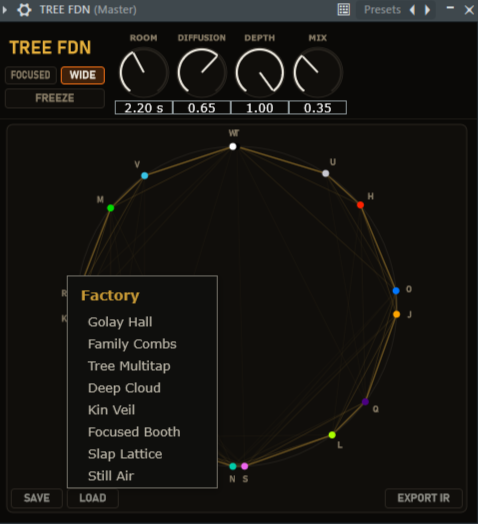
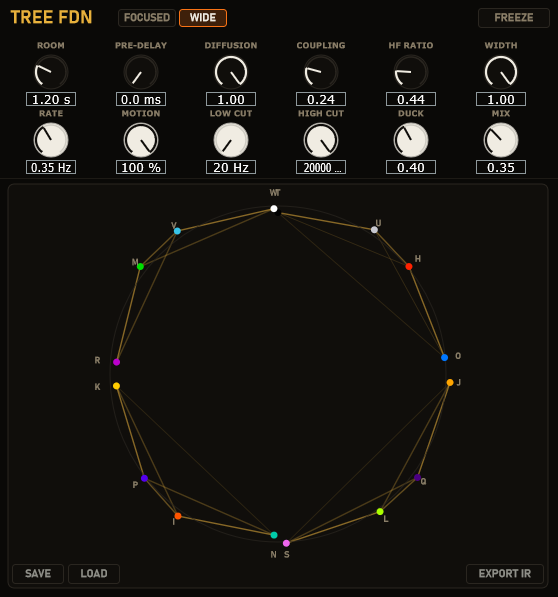
web: actualiza TREE FDN y limpia media del landing
Seccion TREE FDN
- Imagen principal (hero + tarjeta de producto) a la captura nueva de 12
  knobs; la anterior mostraba la UI de 4 knobs con DEPTH.
- DEPTH -> COUPLING en toda la seccion. Solo cambia la etiqueta visible:
  el ID del parametro no cambia, asi que proyectos guardados y automatizacion
  del host siguen atados igual. Se dice en la nota al pie.
- Rejilla de controles rehecha: 6 -> 12 entradas en el orden del panel, con
  los rangos reales. Nuevas: PRE-DELAY, HF RATIO, WIDTH, RATE, MOTION,
  LOW CUT, HIGH CUT, DUCK.
- Nuevo punto y dos tarjetas para COUPLING y MOTION. Sin cifras: las
  mediciones se quedan internas.
- Corregida la nota que afirmaba que el damping no necesitaba knob extra
  (HF RATIO existe desde hace tiempo).
- "The display is the DSP" cubre ya la respiracion por nodo y el hecho de
  que a MOTION 0 el grafo se queda quieto.

Landing
- Fuera el embed de YouTube.
- Fuera los 7 reproductores de audio (4 del hero + los 3 de "Hear the
  geometry"); la seccion entera se va porque sin ellos quedaba vacia.
  Los .wav siguen en el repo. Se rehacen.

diff --git a/index.html b/index.html
@@ -57,39 +57,6 @@
         <div style="margin:44px auto 0;max-width:960px;border:1px solid #232933;border-radius:14px;overflow:hidden;box-shadow:0 40px 90px -30px rgba(255,138,42,0.18), 0 30px 60px -40px rgba(0,0,0,0.9);background:#06080e">
           <iframe src="Video%20con%20voz%20duck/github-pages/index.html" title="Expand32 — intro animation" style="display:block;width:100%;aspect-ratio:16/9;border:0" allow="autoplay; fullscreen" allowfullscreen="allowfullscreen" loading="lazy"></iframe>
         </div>
-        <div style="margin:34px auto 0;max-width:960px">
-          <div style="font-family:'IBM Plex Mono',monospace;font-size:12px;letter-spacing:0.22em;color:#ff8a2a;text-transform:uppercase;font-weight:500">Audio samples</div>
-          <div style="display:flex;flex-direction:column;gap:12px;margin-top:16px">
-            <div style="display:flex;align-items:center;gap:20px;background:#12151a;border:1px solid #232933;border-radius:12px;padding:18px 24px;flex-wrap:wrap;text-align:left">
-              <div style="flex:1;min-width:220px">
-                <div style="font-weight:700;font-size:16px;color:#e8eaed">Physical WG engine</div>
-                <div style="font-family:'IBM Plex Mono',monospace;font-size:11.5px;color:#5b6570;margin-top:4px">LINEAGE DELAY + TREE FDN</div>
-              </div>
-              <audio controls="controls" preload="none" src="Muestras%20de%20audio/Engine%20physical%20Wg%20-%20Lineage%20delay%20%26%20Tree%20fdn.wav" style="flex:1;min-width:260px;height:36px"></audio>
-            </div>
-            <div style="display:flex;align-items:center;gap:20px;background:#12151a;border:1px solid #232933;border-radius:12px;padding:18px 24px;flex-wrap:wrap;text-align:left">
-              <div style="flex:1;min-width:220px">
-                <div style="font-weight:700;font-size:16px;color:#e8eaed">Undertone engine</div>
-                <div style="font-family:'IBM Plex Mono',monospace;font-size:11.5px;color:#5b6570;margin-top:4px">AUTO + TREE FDN + PRIME LINEAGE</div>
-              </div>
-              <audio controls="controls" preload="none" src="Muestras%20de%20audio/Engine%20Undertone%20-%20Aut%2BTree%20fdn%2BPrime%20lineage.wav" style="flex:1;min-width:260px;height:36px"></audio>
-            </div>
-            <div style="display:flex;align-items:center;gap:20px;background:#12151a;border:1px solid #232933;border-radius:12px;padding:18px 24px;flex-wrap:wrap;text-align:left">
-              <div style="flex:1;min-width:220px">
-                <div style="font-weight:700;font-size:16px;color:#e8eaed">Elliptic Curve engine</div>
-                <div style="font-family:'IBM Plex Mono',monospace;font-size:11.5px;color:#5b6570;margin-top:4px">TREE FDN + LINEAGE DELAYS</div>
-              </div>
-              <audio controls="controls" preload="none" src="Muestras%20de%20audio/Eliptic%20curve%20-%20Tree%20fdn%2B%20Lineage%20delays.wav" style="flex:1;min-width:260px;height:36px"></audio>
-            </div>
-            <div style="display:flex;align-items:center;gap:20px;background:#12151a;border:1px solid #232933;border-radius:12px;padding:18px 24px;flex-wrap:wrap;text-align:left">
-              <div style="flex:1;min-width:220px">
-                <div style="font-weight:700;font-size:16px;color:#e8eaed">Rössler engine</div>
-                <div style="font-family:'IBM Plex Mono',monospace;font-size:11.5px;color:#5b6570;margin-top:4px">TREE FDN + PRIME LINEAGE</div>
-              </div>
-              <audio controls="controls" preload="none" src="Muestras%20de%20audio/Engine%20Rossler%20-%20%20Tree%20fdn%2B%20Prime%20Lineage.wav" style="flex:1;min-width:260px;height:36px"></audio>
-            </div>
-          </div>
-        </div>
         <div style="display:flex;justify-content:center;gap:14px;margin-top:38px;flex-wrap:wrap">
           <div onClick="{{ goBuy }}" style="display:inline-flex;align-items:center;gap:10px;background:#ff8a2a;color:#0a0c0f;font-weight:700;font-size:16px;padding:15px 30px;border-radius:8px;cursor:pointer" style-hover="background:#ffa04d">Try it free ↓</div>
           <div onClick="{{ goSynth }}" style="display:inline-flex;align-items:center;gap:10px;background:transparent;border:1px solid #2c343f;color:#e8eaed;font-weight:600;font-size:16px;padding:14px 30px;border-radius:8px;cursor:pointer" style-hover="border-color:#ff8a2a;color:#ff8a2a">Explore the engines</div>
@@ -154,7 +121,7 @@
         </div>
         <div onClick="{{ goTree }}" style="background:#12151a;border:1px solid #232933;border-radius:16px;overflow:hidden;cursor:pointer;display:flex;flex-direction:column" style-hover="border-color:#e4b33c">
           <div style="height:220px;overflow:hidden;border-bottom:1px solid #1c222b;background:#0d0f13;display:flex;justify-content:center">
-            <img src="captura-de-pantalla-205--mru69im2-6m0v.png" alt="Tree FDN" style="width:100%;height:100%;object-fit:cover;object-position:center;display:block">
+            <img src="assets/tree-fdn-ui.png" alt="Tree FDN" style="width:100%;height:100%;object-fit:cover;object-position:center;display:block">
           </div>
           <div style="padding:26px 28px 28px;display:flex;flex-direction:column;gap:10px;flex:1">
             <div style="font-family:'IBM Plex Mono',monospace;font-size:11px;letter-spacing:0.2em;color:#e4b33c">ALGORITHMIC REVERB</div>
@@ -194,44 +161,6 @@
         </div>
       </div>
     </div>
-
-    <!-- Audio demos -->
-    <sc-if value="{{ showAudio }}" hint-placeholder-val="{{ true }}">
-      <div style="border-top:1px solid #151a21">
-        <div style="max-width:900px;margin:0 auto;padding:100px 32px">
-          <div style="text-align:center">
-            <div style="font-family:'IBM Plex Mono',monospace;font-size:12px;letter-spacing:0.22em;color:#ff8a2a;text-transform:uppercase;font-weight:500">Listen</div>
-            <h2 style="font-size:clamp(32px,4.5vw,50px);font-weight:800;letter-spacing:-0.02em;line-height:1.05;color:#f2f4f6;margin:16px 0 0">Hear the geometry.</h2>
-          </div>
-          <div style="margin-top:48px;position:relative;width:100%;padding-top:56.25%;border-radius:14px;overflow:hidden;border:1px solid #232933;background:#0a0c0f">
-            <iframe src="https://www.youtube.com/embed/OigM_SSSbHU" title="Expand32 — sound demo" style="position:absolute;inset:0;width:100%;height:100%;border:0" allow="accelerometer; autoplay; clipboard-write; encrypted-media; gyroscope; picture-in-picture; web-share" allowfullscreen loading="lazy"></iframe>
-          </div>
-          <div style="display:flex;flex-direction:column;gap:12px;margin-top:48px">
-            <div style="display:flex;align-items:center;gap:20px;background:#12151a;border:1px solid #232933;border-radius:12px;padding:18px 24px;flex-wrap:wrap">
-              <div style="flex:1;min-width:220px">
-                <div style="font-weight:700;font-size:16px;color:#e8eaed">Multitap lead — Tree FDN</div>
-                <div style="font-family:'IBM Plex Mono',monospace;font-size:11.5px;color:#5b6570;margin-top:4px">A/B DEMO · FIRST PASS DRY — THEN THE REVERB KICKS IN</div>
-              </div>
-              <audio controls="controls" preload="none" src="./audios/tree-multitap-lead.wav" style="flex:1;min-width:260px;height:36px"></audio>
-            </div>
-            <div style="display:flex;align-items:center;gap:20px;background:#12151a;border:1px solid #232933;border-radius:12px;padding:18px 24px;flex-wrap:wrap">
-              <div style="flex:1;min-width:220px">
-                <div style="font-weight:700;font-size:16px;color:#e8eaed">Trumpet — Tree FDN</div>
-                <div style="font-family:'IBM Plex Mono',monospace;font-size:11.5px;color:#5b6570;margin-top:4px">A/B DEMO · FIRST PASS DRY — THEN THE REVERB KICKS IN</div>
-              </div>
-              <audio controls="controls" preload="none" src="./audios/trumpet-tree-fdn.wav" style="flex:1;min-width:260px;height:36px"></audio>
-            </div>
-            <div style="display:flex;align-items:center;gap:20px;background:#12151a;border:1px solid #232933;border-radius:12px;padding:18px 24px;flex-wrap:wrap">
-              <div style="flex:1;min-width:220px">
-                <div style="font-weight:700;font-size:16px;color:#e8eaed">Vocal — Tree FDN</div>
-                <div style="font-family:'IBM Plex Mono',monospace;font-size:11.5px;color:#5b6570;margin-top:4px">A/B DEMO · FIRST PASS DRY — THEN THE REVERB KICKS IN</div>
-              </div>
-              <audio controls="controls" preload="none" src="./audios/vocal-tree-fdn.wav" style="flex:1;min-width:260px;height:36px"></audio>
-            </div>
-          </div>
-        </div>
-      </div>
-    </sc-if>
 
     <!-- Roadmap / research -->
     <div style="border-top:1px solid #151a21;background:#0c0e12">
@@ -593,7 +522,7 @@
           
           <h1 style="font-size: clamp(42px,6vw,76px); font-weight: 900; letter-spacing: -0.03em; line-height: 1; color: #21B6F6; margin: 18px 0 0">Tree FDN</h1><div style="font-family:'IBM Plex Mono',monospace;font-size:15px;letter-spacing:0.1em;color:#e4b33c;margin-top:14px">the room, alive</div>
           
-          <p style="font-size: 17.5px; line-height: 1.7; color: #FFFFFF; margin: 22px 0 0; max-width: 620px">A new algorithmic reverb built on an unusual topology: It´s 16 delay lines,&nbsp; the nodes of a branching mathematical tree, and the feedback matrix is an exact energy-preserving rotation derived from the tree´s geometry.</p><ul style="list-style:none;padding:0;margin:26px 0 0;display:flex;flex-direction:column;gap:12px">
+          <p style="font-size: 17.5px; line-height: 1.7; color: #FFFFFF; margin: 22px 0 0; max-width: 620px">A new algorithmic reverb built on an unusual topology: 16 delay lines standing at the nodes of a branching mathematical tree, and a feedback matrix that is an exact energy-preserving rotation derived from the tree’s own geometry. The room can be reshaped while audio runs, set moving, or frozen in place.</p><ul style="list-style:none;padding:0;margin:26px 0 0;display:flex;flex-direction:column;gap:12px">
             <sc-for list="{{ treePoints }}" as="p" hint-placeholder-count="4">
               <li style="display:flex;gap:14px;align-items:baseline;font-size:15.5px;line-height:1.6;color:#c9d0d8"><span style="color:#e4b33c;font-family:'IBM Plex Mono',monospace;font-size:12px">◆</span><span style="color: #9A9B9D"><strong style="color:#f2f4f6">{{ p.k }}</strong> — {{ p.v }}</span></li>
             </sc-for>
@@ -605,7 +534,7 @@
         </div>
         <div style="justify-self:center;max-width:420px;width:100%">
           <div style="border:1px solid #232933;border-radius:14px;overflow:hidden;box-shadow:0 40px 80px -30px rgba(228,179,60,0.15), 0 30px 60px -40px rgba(0,0,0,0.9)">
-            <img src="./captura-de-pantalla-205--mru69im2-6m0v.png" alt="Tree FDN interface — the 16-node circular graph" style="display:block;width:100%;height:auto">
+            <img src="./assets/tree-fdn-ui.png" alt="Tree FDN interface — twelve controls and the 16-node circular graph" style="display:block;width:100%;height:auto">
           </div>
           <div style="font-family:'IBM Plex Mono',monospace;font-size:11.5px;color:#5b6570;margin-top:14px;text-align:center">Windows 64-bit available now · macOS coming <span style="color:#9aa3ad">August 2026</span></div>
         </div>
@@ -655,7 +584,7 @@
         <div>
           <div style="font-family:'IBM Plex Mono',monospace;font-size:12px;letter-spacing:0.22em;color:#e4b33c;text-transform:uppercase;font-weight:500">The display is the DSP</div>
           <h2 style="font-size: clamp(30px,4vw,44px); font-weight: 800; letter-spacing: -0.02em; line-height: 1.08; color: #FCFCFC; margin: 16px 0 0">Sixteen nodes. Every chord is a live coefficient.</h2>
-          <p style="font-size: 16.5px; line-height: 1.75; color: #A29494; margin: 20px 0 0">The circular graph isn't an animation of the reverb — it <em style="color:#c9d0d8">is</em> the reverb. The chords draw the real mixing matrix, so turning Diffusion or Depth visibly rewires the room. Each node glows with the actual RMS of its delay line.</p>
+          <p style="font-size: 16.5px; line-height: 1.75; color: #A29494; margin: 20px 0 0">The circular graph isn't an animation of the reverb — it <em style="color:#c9d0d8">is</em> the reverb. The chords draw the real mixing matrix, so turning Diffusion or Coupling visibly rewires the room. Each node glows with the actual RMS of its delay line, and breathes with the movement of that same line — sixteen nodes, sixteen drifts, none of them in step. Take Motion to zero and the graph goes still, because the engine has.</p>
           <p style="font-family:'IBM Plex Mono',monospace;font-size:12.5px;line-height:1.8;color:#5b6570;margin:18px 0 0">Every node sits where the structure of the tree puts it — the layout is the mathematics, not decoration.</p>
         </div>
         <div style="position:relative;height:380px;border:1px solid #232933;border-radius:14px;overflow:hidden;background:#0a0c0f">
@@ -668,7 +597,7 @@
     <div style="border-top:1px solid #151a21;background:#0c0e12">
       <div style="max-width:1180px;margin:0 auto;padding:90px 32px">
         <div style="font-family:'IBM Plex Mono',monospace;font-size:12px;letter-spacing:0.22em;color:#e4b33c;text-transform:uppercase;font-weight:500">The controls</div>
-        <h2 style="font-size: clamp(30px,4vw,44px); font-weight: 800; letter-spacing: -0.02em; line-height: 1.08; color: #FCFCFC; margin: 16px 0 0; max-width: 640px">Six controls. The tree does the rest.</h2>
+        <h2 style="font-size: clamp(30px,4vw,44px); font-weight: 800; letter-spacing: -0.02em; line-height: 1.08; color: #FCFCFC; margin: 16px 0 0; max-width: 640px">Twelve controls. The tree does the rest.</h2>
         <div style="display:grid;grid-template-columns:repeat(3,1fr);gap:18px;margin-top:48px">
           <sc-for list="{{ treeControls }}" as="c" hint-placeholder-count="6">
             <div style="background:#12151a;border:1px solid #232933;border-radius:14px;padding:26px 28px">
@@ -680,7 +609,7 @@
             </div>
           </sc-for>
         </div>
-        <p style="font-family:'IBM Plex Mono',monospace;font-size:12.5px;color:#5b6570;margin:26px 0 0">Damping is integrated by tree depth: deeper nodes are darker — the highs decay first, like a real room. No extra knob needed.</p>
+        <p style="font-family:'IBM Plex Mono',monospace;font-size:12.5px;line-height:1.9;color:#5b6570;margin:26px 0 0">Plus FREEZE: gains to 1, exact conservation — the room holds forever until you let go, and the movement holds with it.<br>Damping lives in the structure: deeper nodes of the tree are darker, so the highs decay first, like a real room. HF RATIO scales that behaviour instead of stacking a filter on top of it.<br>COUPLING was called DEPTH until this release. Saved projects and host automation are unaffected — only the label changed.</p>
       </div>
     </div>
 
@@ -1209,6 +1138,7 @@ class Component extends DCLogic {
       treePoints: [
         { k: 'Orthogonal by construction', v: 'the diffusion knob never changes the length of the tail — energy is conserved exactly at any setting.' },
         { k: 'Honest T60', v: 'set the knob to 2.0 s, measure a ~2.0 s tail. The number and the room agree.' },
+        { k: 'A tail that breathes', v: 'MOTION gives the room a slow drift that never lines up with itself — density, not wobble. The pitch stays put.' },
         { k: 'Infinite Freeze', v: 'exact conservation — not a loop, not a sample. Measured: \u22120.1 dB over 2 s.' },
         { k: 'True stereo', v: 'wide by mathematics, mono-safe by mathematics.' }
       ],
@@ -1216,19 +1146,27 @@ class Component extends DCLogic {
       treeClaims: [
         { tag: 'ORTHOGONAL MIX', title: 'Diffusion never touches the decay', body: 'The mixing matrix is orthogonal by construction — a genuine rotation of the network, not a gain trick — so energy is conserved exactly at any setting. Diffusion morphs the texture from metallic parallel combs to a dense cloud without ever changing how long the tail lasts.', figure: 'measured tail variation across the full Diffusion range: 2\u20133%' },
         { tag: 'HONEST T60', title: 'A room that tells the truth', body: 'Per-line decay is solved for the T60 you ask for: set ROOM to 2.0 s and the measured tail is ~2.0 s. Most algorithmic reverbs cannot promise this — the printed number and the real number are usually strangers.', figure: 'measured T60 error: 2\u20136%' },
+        { tag: 'COUPLING', title: 'One room, two decay slopes', body: 'Close COUPLING and the branches of the tree stop sharing energy: each family decays at its own rate, so the tail arrives in two slopes \u2014 a quicker early fall with a longer one running underneath. Open it and the network returns to a single unified decay. It moves the shape of the decay, not its density, and it does it without touching the time you set on ROOM.', figure: 'the shape of the decay \u2014 never its length' },
+        { tag: 'MOTION', title: 'Movement without detuning', body: 'Every one of the sixteen lines drifts at its own slow rate, and none of them ever lines up with the others. The tail thickens and stops sounding static \u2014 without the audible wobble that usually comes with a modulated reverb, because nothing is being swept in step. Take MOTION to zero and the engine is bit-identical to a still room; press FREEZE and the movement stops with it.', figure: 'at zero the engine is a still room, bit for bit' },
         { tag: 'FREEZE', title: 'Mathematically infinite freeze', body: 'On freeze, the per-line gains go to 1 and the orthogonal matrix holds the energy — without growing, without dying. It is not a loop and not a sample: it is the system in exact conservation. Hold a room forever.', figure: 'measured drift: \u22120.1 dB over 2 s' },
         { tag: 'TRUE STEREO', title: 'Wide and mono-safe, by mathematics', body: 'Both channels are drawn from one network through a complementary pair of codes — real width with mono compatibility guaranteed by construction, not by luck. And all 16 delay lines are prime numbers of samples: zero comb coincidences.', figure: 'L/R correlation \u2248 \u22120.09 · mono sum: \u22120.4 dB' },
-        { tag: 'LIVE DISPLAY', title: 'The display is the DSP', body: 'The 16-node circular graph shows the real mixing matrix: the chords are the live coefficients — turn Diffusion or Depth and you see it — and each node glows with the actual RMS of its delay line. Every node sits where the structure of the tree puts it.', figure: 'not a visualization — the coefficients themselves' },
+        { tag: 'LIVE DISPLAY', title: 'The display is the DSP', body: 'The 16-node circular graph shows the real mixing matrix: the chords are the live coefficients — turn DIFFUSION or COUPLING and you see it — and each node glows with the actual RMS of its delay line. With MOTION up, the nodes breathe, each on its own drift, so you can see how far from lock-step the network is. At zero, they stand still.', figure: 'not a visualization — the coefficients themselves' },
         { tag: 'COST', title: 'Zero latency, near-zero CPU', body: 'Sixteen delay lines and one 16\u00d716 matrix. No convolution, no lookahead, no latency — an infinite-tail reverb that costs almost nothing to run.', figure: '16 lines + one 16\u00d716 rotation · 0 samples latency' }
       ],
 
       treeControls: [
         { name: 'ROOM', range: '0.3\u201312 s', desc: 'The real T60 of the tail. What you set is what you measure.' },
+        { name: 'PRE-DELAY', range: '0\u2013500 ms', desc: 'The gap between the source and the room \u2014 the control that sets perceived distance. Fine resolution where you actually work: the first 60 ms.' },
         { name: 'DIFFUSION', range: '0\u20131', desc: 'From metallic parallel combs to a dense cloud — a rotation of the tree you can turn live, without changing the tail length.' },
-        { name: 'DEPTH', range: '0\u20131', desc: 'How many levels of kinship mix. At 0, only the near family — an audible tree multitap, 8 pairs. At 1, the full cloud: 120 pairs.' },
-        { name: 'MIX', range: 'dry / wet', desc: 'The wet balance. Everything else about the room stays put while you set it.' },
-        { name: 'FOCUSED / WIDE', range: 'stereo mode', desc: 'FOCUSED keeps the wet centered; WIDE opens the full stereo pair — mono-safe either way.' },
-        { name: 'FREEZE', range: 'on / off', desc: 'Gains to 1, exact conservation. The room holds forever until you let go.' }
+        { name: 'COUPLING', range: '0\u20131', desc: 'How many levels of kinship mix. At 0, only the near family — an audible tree multitap, 8 pairs. At 1, the full cloud: 120 pairs. Close it and the tail arrives in two slopes instead of one.' },
+        { name: 'HF RATIO', range: '0.3–1', desc: 'How much shorter the highs decay than the lows. At 1 the whole spectrum decays together; lower it and the room turns to felt.' },
+        { name: 'WIDTH', range: 'centred → wide', desc: 'Continuous, from a centred wet to the full stereo pair, mono-safe anywhere along the way. FOCUSED and WIDE are one-click shortcuts to the two ends.' },
+        { name: 'RATE', range: '0.05–2 Hz', desc: 'The base speed of the movement. Each of the sixteen lines takes its own multiple of it, so they never drift in step.' },
+        { name: 'MOTION', range: '0–100 %', desc: 'How much the room moves. At 0 the engine is a still room, bit for bit: this knob is the on/off. At 100, the full breathing tail.' },
+        { name: 'LOW CUT', range: '20 Hz–1 kHz', desc: 'Takes the mud out of the wet and leaves the dry untouched. At the bottom of its range it is bypassed exactly.' },
+        { name: 'HIGH CUT', range: '1–20 kHz', desc: 'Sits the tail back without dulling the source, because it filters the wet only. At the top of its range it is bypassed exactly.' },
+        { name: 'DUCK', range: '0–1', desc: 'The dry pushes the wet down while it plays and lets it back in the gaps. Stays active during FREEZE, so you can play over a held room.' },
+        { name: 'MIX', range: 'dry / wet', desc: 'The wet balance. Everything else about the room stays put while you set it.' }
       ],
 
       treePresets: [
